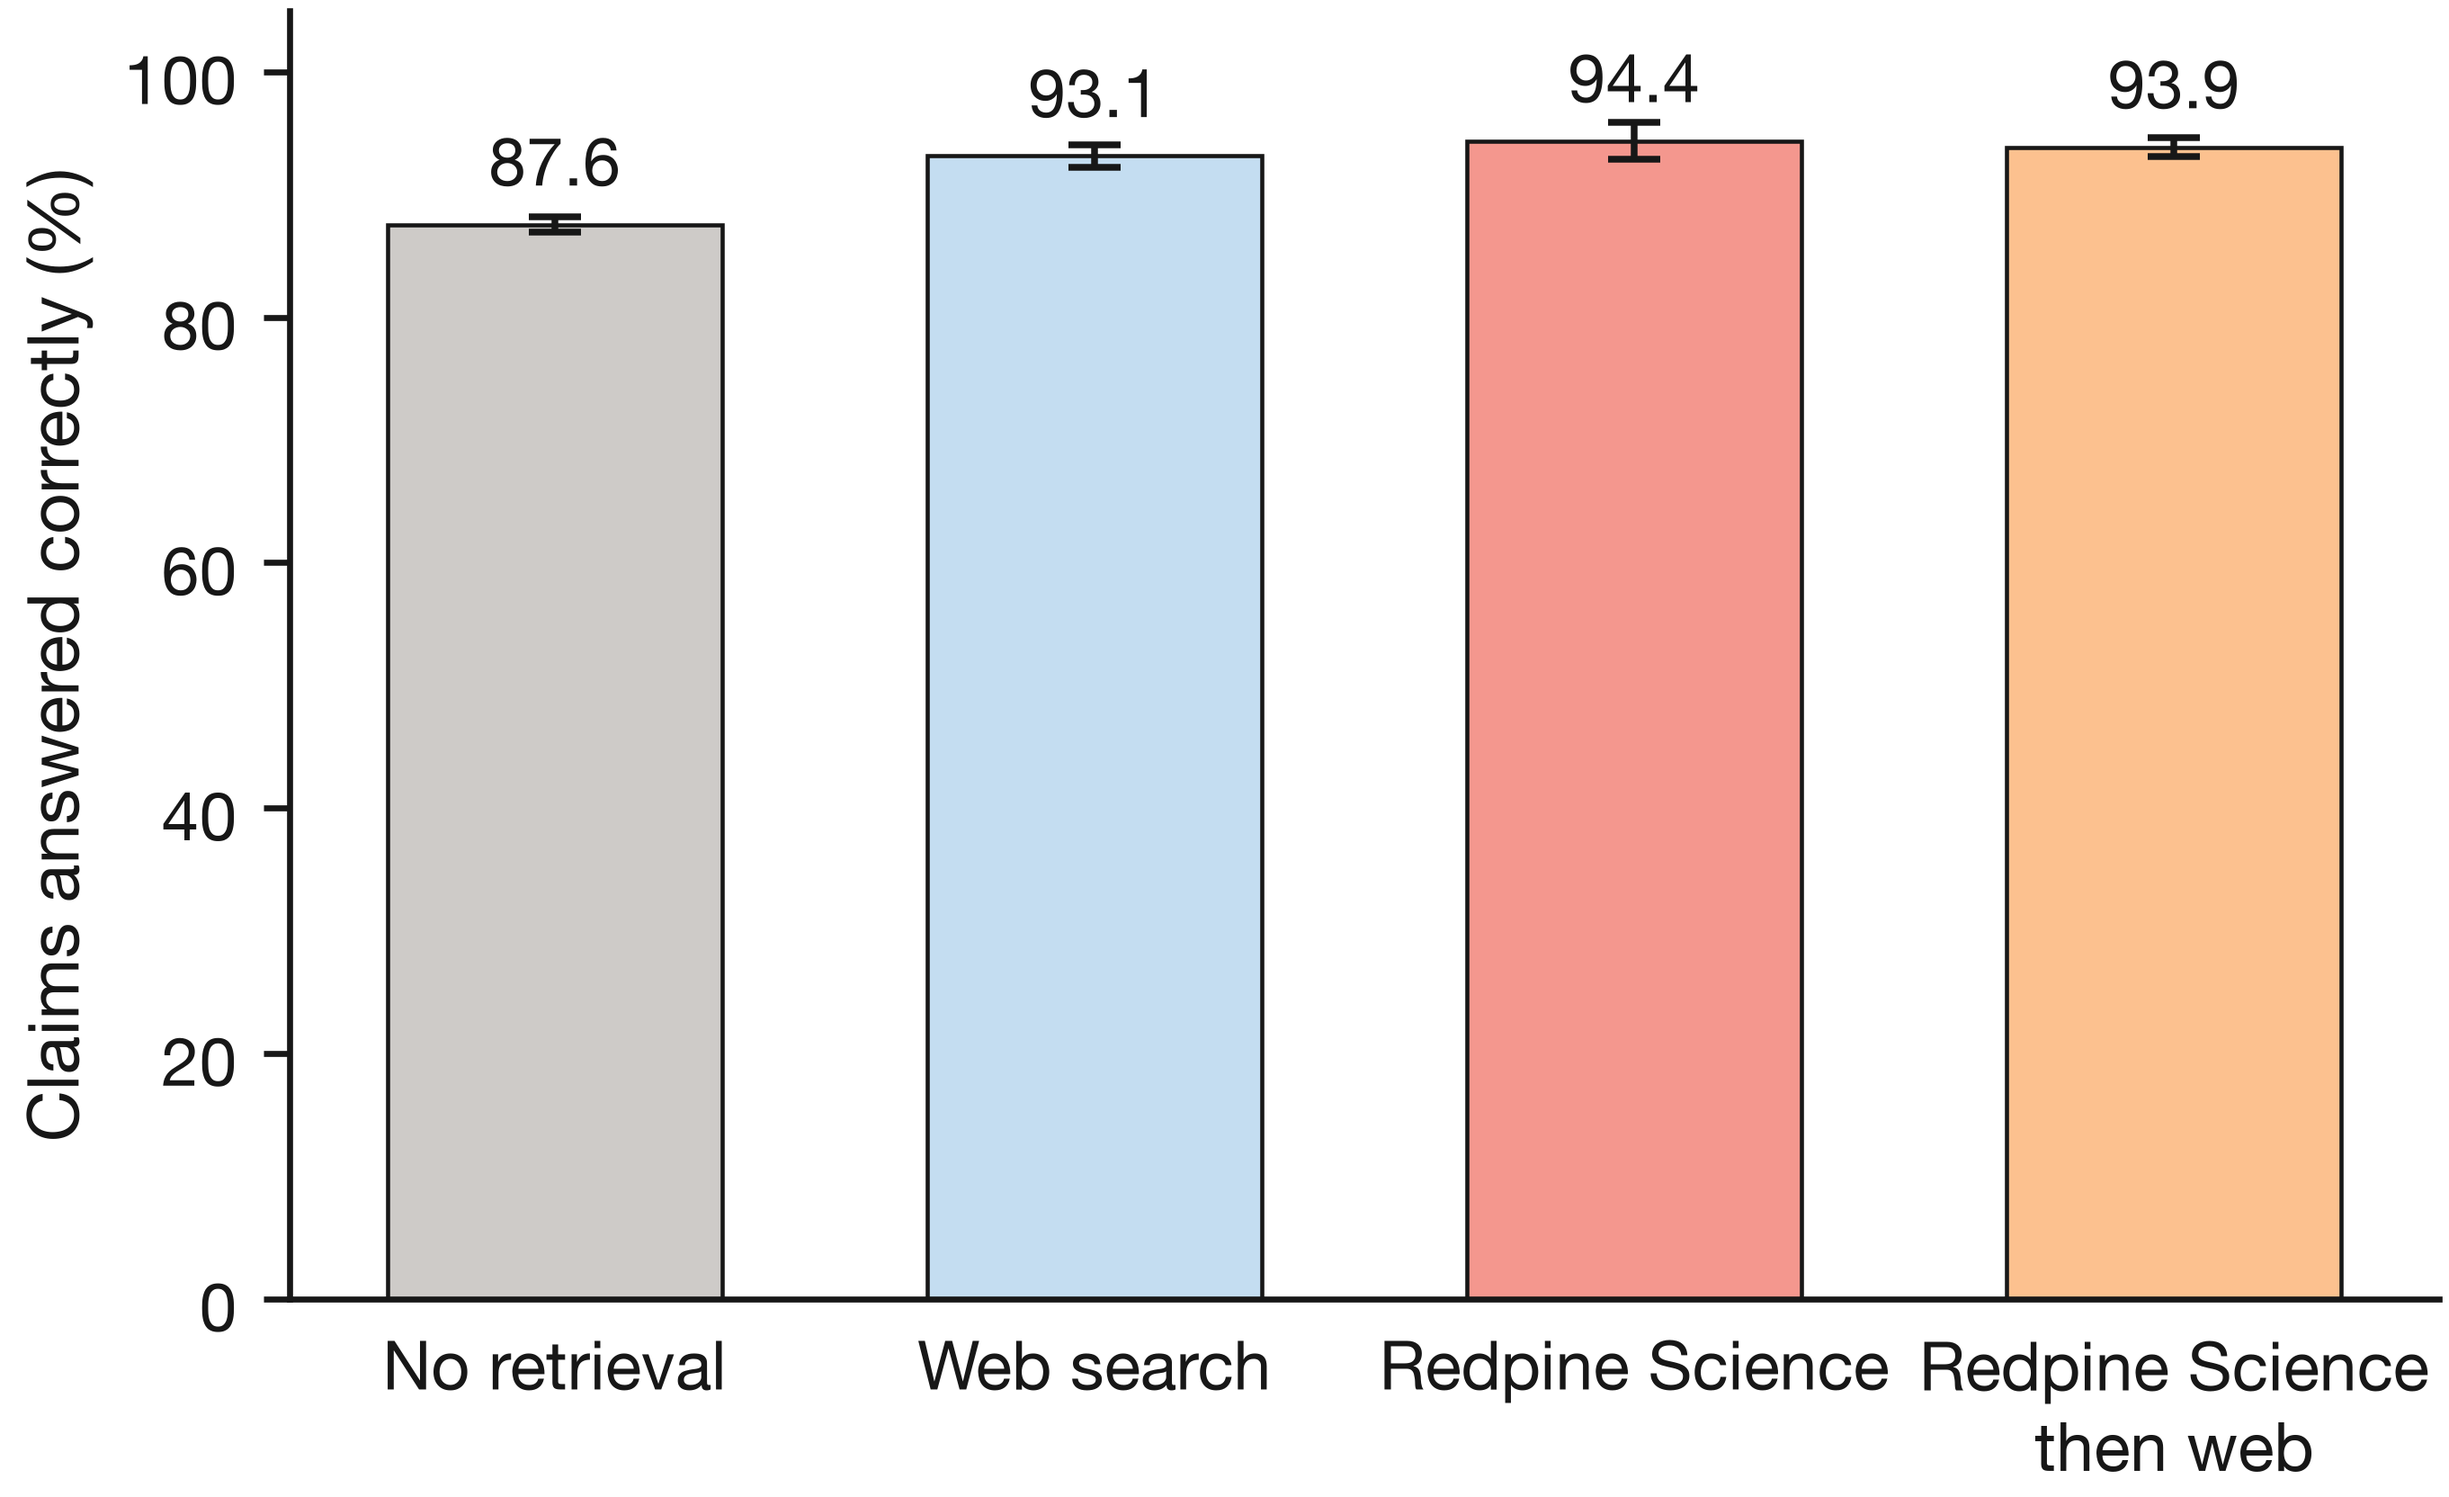
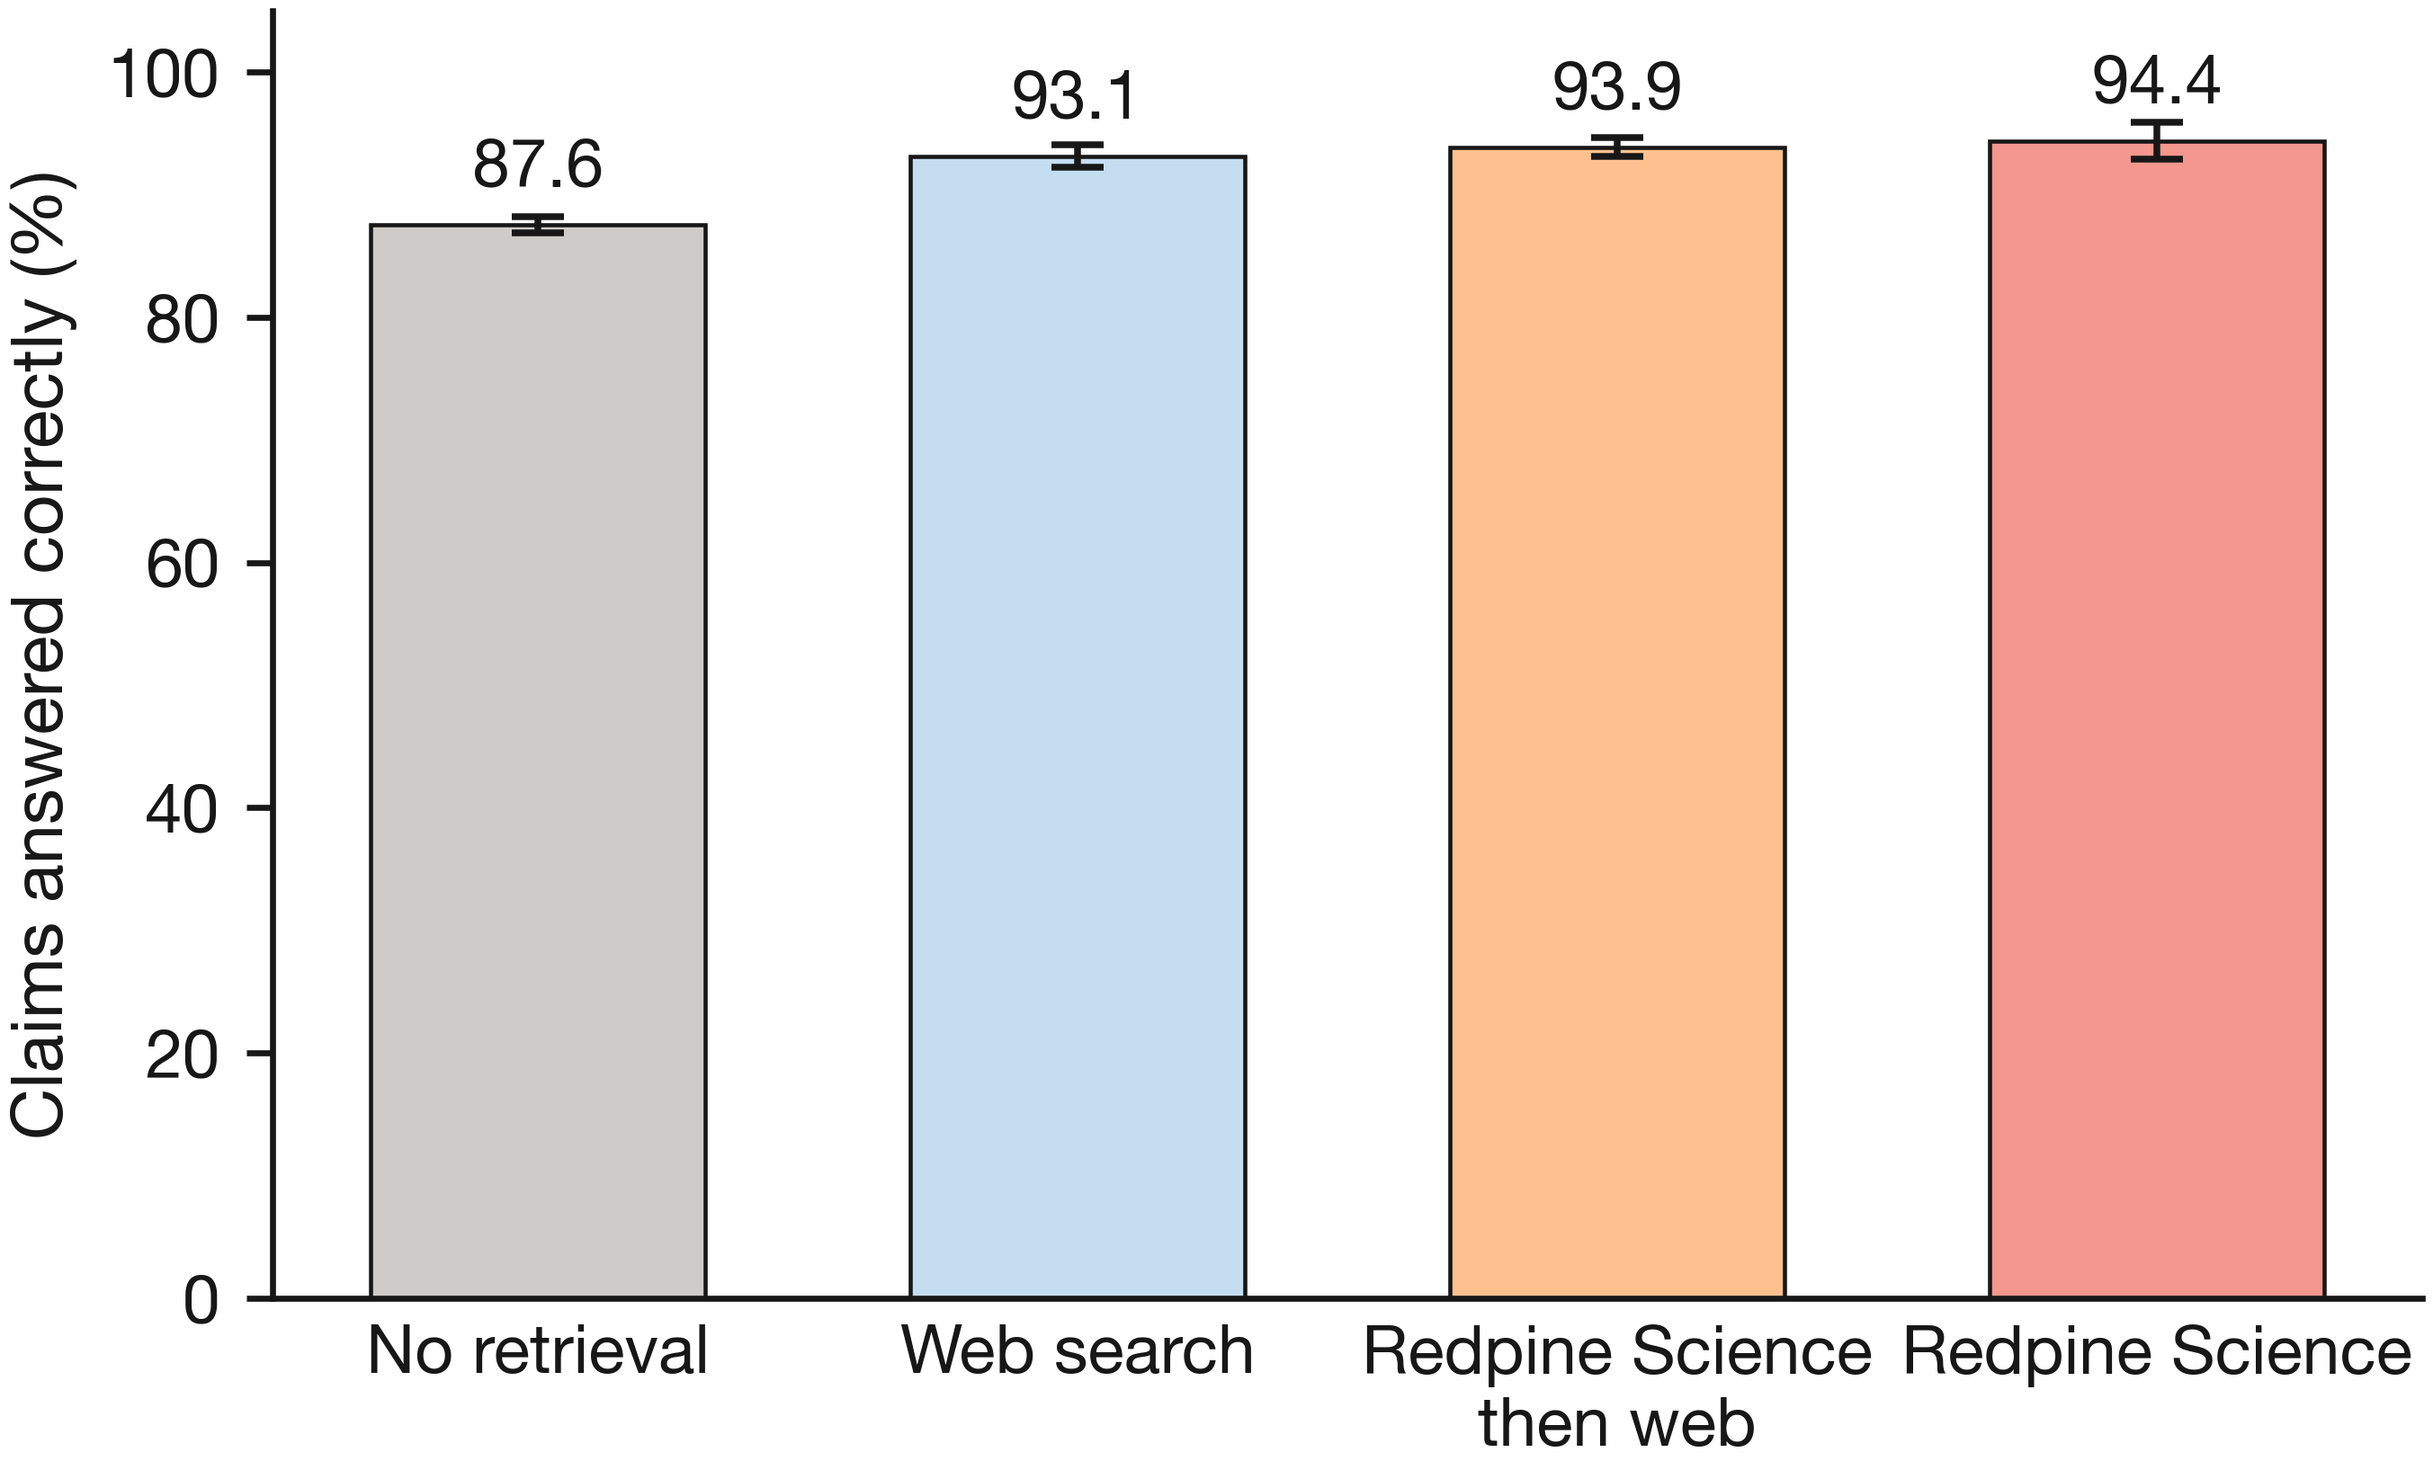
fix(figures): Redpine Science always rightmost, ascending left to right
Per direction: every bar chart in the report now orders systems lowest
to highest value, left to right, so Redpine Science's bar always ends
up on the right.

- fig_scifact_arms.py: no retrieval < web search < Redpine then web <
  Redpine Science (94.4, the highest of the four, now rightmost; was
  third).
- fig_quadrant3_recall.py: Tavily < Exa < Redpine Science at every rank
  cutoff (was Redpine first/left).
- fig_quadrant4_combined.py: PubMed < Redpine Science on both panels
  (was Redpine first/left).
- fig_quadrant2_metrics.py: web search < Redpine's arm on claim coverage
  and correctness; reverses this session's own earlier change that put
  Redpine on the left for this specific chart. One exception, flagged
  in the script's own comment: the contradiction-rate panel is "lower is
  better," so Redpine's bar is actually the lower value there, but it
  still plots on the right to keep one consistent left/right order
  across all three panels of the same figure rather than flipping sides
  per panel -- the axis label already says which direction is good.

All four regenerated; numbers unchanged, only left-to-right order.

Changed region(s): [[0.0311, 0.0, 0.9937, 0.9982], [0.0, 0.0936, 0.0311, 0.7798]]

diff --git a/figures/fig_quadrant2_metrics.py b/figures/fig_quadrant2_metrics.py
@@ -65,14 +65,20 @@ DATA = {
 JUDGES = ["sonnet", "jev"]
 JUDGE_LABELS = {"sonnet": "Sonnet 5", "jev": "Jev"}
 
-# Redpine's arm plots first (left of each judge's pair), web search second.
-# Colour is a local override, not the shared ARM_COLORS role dict: this chart
-# has only two arms and no separate "Redpine alone" bar to distinguish from,
-# so it reads as a plain two-system comparison (Crimson vs. Sky Blue, as in
-# quadrant three's recall figure) rather than quadrant one's four-arm
-# Orange-vs-Crimson distinction, even though the arm itself is the same
-# "Redpine Science with web search as fallback" quadrant one calls Orange.
-ARMS = ["redpine_first", "web"]
+# Web search plots first (left of each judge's pair), Redpine's arm second,
+# so every Redpine Science result ends up on the right -- a single shared
+# order across all three panels, including contradiction rate, where
+# Redpine's bar is actually the LOWER value (lower is better there); the
+# y-axis label says so, and consistent left/right positioning across the
+# three panels of one figure matters more than strict ascending order
+# within that one panel. Colour is a local override, not the shared
+# ARM_COLORS role dict: this chart has only two arms and no separate
+# "Redpine alone" bar to distinguish from, so it reads as a plain
+# two-system comparison (Crimson vs. Sky Blue, as in quadrant three's
+# recall figure) rather than quadrant one's four-arm Orange-vs-Crimson
+# distinction, even though the arm itself is the same "Redpine Science
+# with web search as fallback" quadrant one calls Orange.
+ARMS = ["web", "redpine_first"]
 ARM_LABELS = {"web": "Web search only",
               "redpine_first": "Redpine Science with web search as fallback"}
 LOCAL_COLORS = {"redpine_first": CRIMSON, "web": SKY_BLUE}

diff --git a/figures/fig_scifact_arms.py b/figures/fig_scifact_arms.py
@@ -44,9 +44,10 @@ RUNS = {
     "redpine_first": [93.9, 93.0, 93.5, 94.5, 94.4],
 }
 
-# Plot order runs left to right from least to most tool access, so the bars
-# tell the story in reading order rather than needing the caption to explain it.
-ORDER = ["closed_book", "web", "redpine", "redpine_first"]
+# Plot order runs left to right from lowest to highest mean accuracy, so
+# every Redpine Science result ends up on the right and the bars read as an
+# ascending story without needing the caption to explain it.
+ORDER = ["closed_book", "web", "redpine_first", "redpine"]
 
 LABELS = {
     "closed_book": "No retrieval",

diff --git a/figures/fig_quadrant3_recall.py b/figures/fig_quadrant3_recall.py
@@ -64,9 +64,9 @@ COUNTS = {
     "tavily":  [(322, N_QUERIES), (384, N_QUERIES), (407, N_QUERIES)],
 }
 
-# Plot order left to right within each rank group: Redpine first since it is
-# the system this report is about, then the two comparison systems.
-ORDER = ["redpine", "exa", "tavily"]
+# Plot order left to right within each rank group: lowest recall to highest,
+# so Redpine Science, the highest at every cutoff, ends up on the right.
+ORDER = ["tavily", "exa", "redpine"]
 RANKS = ["Recall@1", "Recall@5", "Recall@10"]
 
 LABELS = {

diff --git a/figures/fig_quadrant4_combined.py b/figures/fig_quadrant4_combined.py
@@ -59,7 +59,9 @@ import matplotlib.pyplot as plt  # noqa: E402
 
 OUT = Path(__file__).resolve().parent / "quadrant4_metrics"
 
-ORDER = ["redpine", "pubmed"]
+# Lower value first (left), Redpine Science -- the higher value on both
+# panels -- second (right).
+ORDER = ["pubmed", "redpine"]
 LABELS = {"redpine": "Redpine Science", "pubmed": "PubMed"}
 
 # --- Panel 1: Precision@5 ---------------------------------------------------
